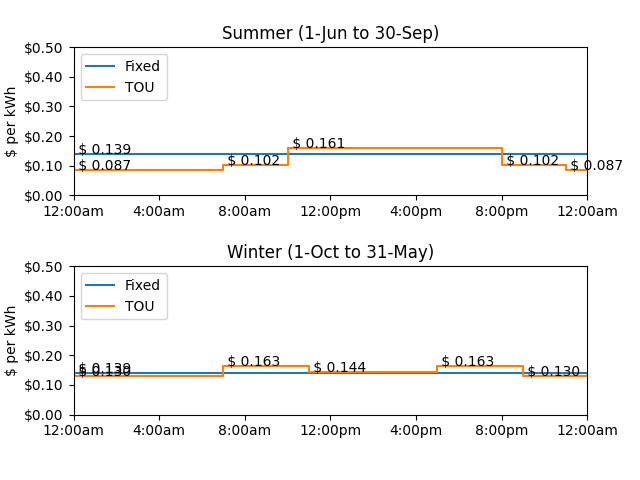
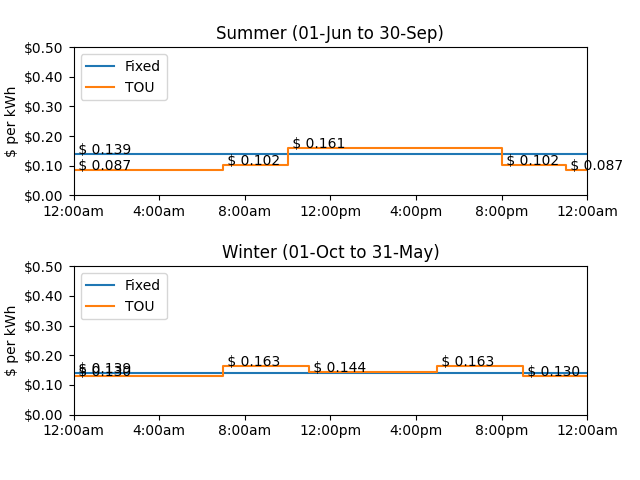
moved post1 to new seasons structure

Changed region(s): [[0.3438, 0.5, 0.6875, 0.5625], [0.3438, 0.0312, 0.6875, 0.0938]]

diff --git a/Post1.py b/Post1.py
@@ -5,7 +5,7 @@ import numpy as np
 
 from fetch_rates import RatesData
 from fetch_times import TimesData
-from fetch_seasons import SeasonsData
+from fetch_seasons import SeasonsData, Season
 from rate_series import RateSegment, RateSeries
 
 def format_time(x, _):
@@ -14,7 +14,7 @@ def format_time(x, _):
 
 def display_state_charts(state: str, td: TimesData, rd: RatesData, sd: SeasonsData):
 
-    state_seasons = list(sd.seasons_for_state(state))
+    state_seasons = sd.seasons_for_state(state)
     fig, ax = plt.subplots(len(state_seasons))
     fig.tight_layout(pad = 3.0)
 
@@ -24,9 +24,9 @@ def display_state_charts(state: str, td: TimesData, rd: RatesData, sd: SeasonsDa
     # this dictionary will come in handy later, when we have a season NAME, it will tell us which subplot belongs to that name
     seasons_dict = {}
     for i, state_season in enumerate(state_seasons):
-        seasons_dict[state_season] = i
-        date_string = " (" + sd.season_begin(state, state_season) + " to " + sd.season_end(state, state_season) + ")"
-        ax[i].set_title(state_season + date_string)
+        seasons_dict[state_season.name] = i
+        date_string = " (" + state_season.dates_string() + ")"
+        ax[i].set_title(state_season.name + date_string)
 
     # formatting the plots
     for subplot in ax:
@@ -50,7 +50,7 @@ def display_state_charts(state: str, td: TimesData, rd: RatesData, sd: SeasonsDa
             x.append(24) #make sure we have a data point at end of day to finish plot
             y.append(y[0]) # make sure midnight (end of day) matches midnight (start of day) value
 
-            seasons_to_plot = [season] if season != "All" else state_seasons
+            seasons_to_plot = [season] if season != "All" else [s.name for s in state_seasons]
             for plot_season in seasons_to_plot:
                 subplot = ax[seasons_dict[plot_season]]
                 subplot.step(x, y, where = "post", label = plan)

diff --git a/fetch_seasons.py b/fetch_seasons.py
@@ -42,8 +42,8 @@ class SeasonsData:
     def states_list(self):
         return np.unique(self.table["State"])
 
-    def seasons_for_state(self, state: str):
-        return np.unique((self.table[self.table["State"]==state])["Season"])
+#    def seasons_for_state(self, state: str):
+#        return np.unique((self.table[self.table["State"]==state])["Season"])
 
     def season_begin(self, state: str, season: str) :
         filter = (self.table["State"]==state) & (self.table["Season"]==season)
@@ -61,7 +61,7 @@ class SeasonsData:
         else:
             return None
 
-    def seasons2_for_state(self, state: str):
+    def seasons_for_state(self, state: str):
         state_table = self.table[self.table["State"]==state]
         seasons = [Season(name, start, end)
                    for name, start, end in zip(state_table["Season"],
